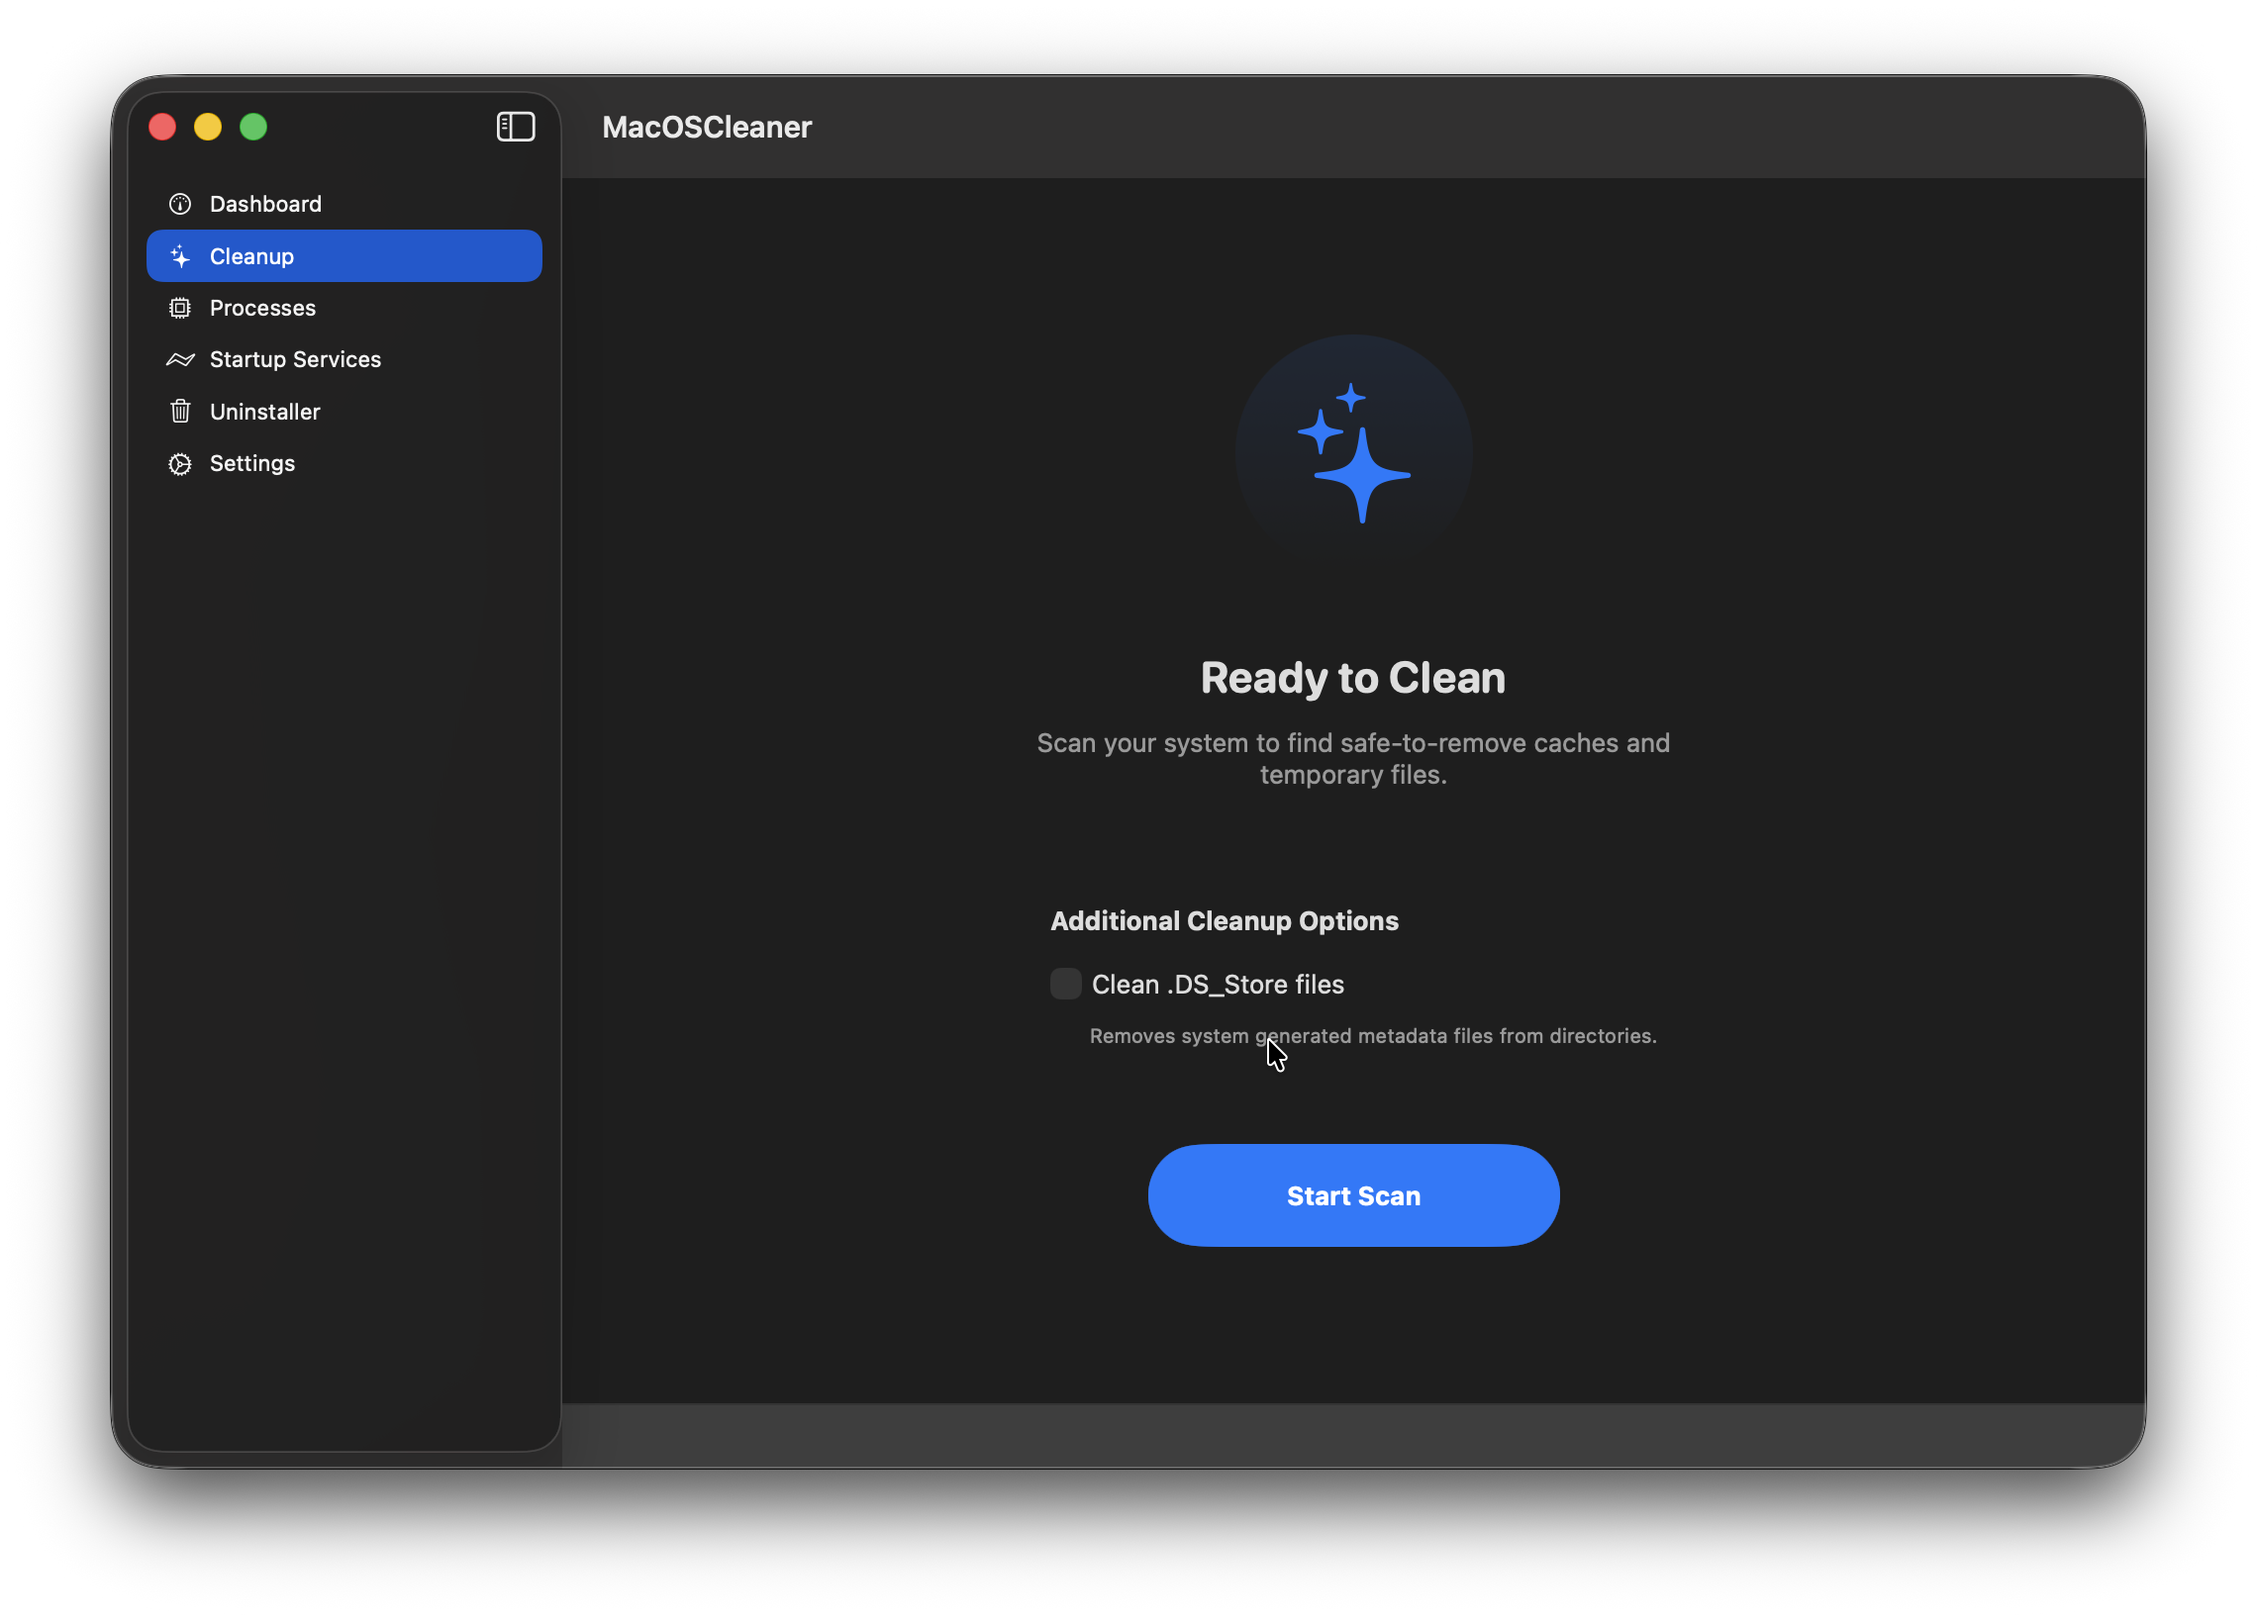
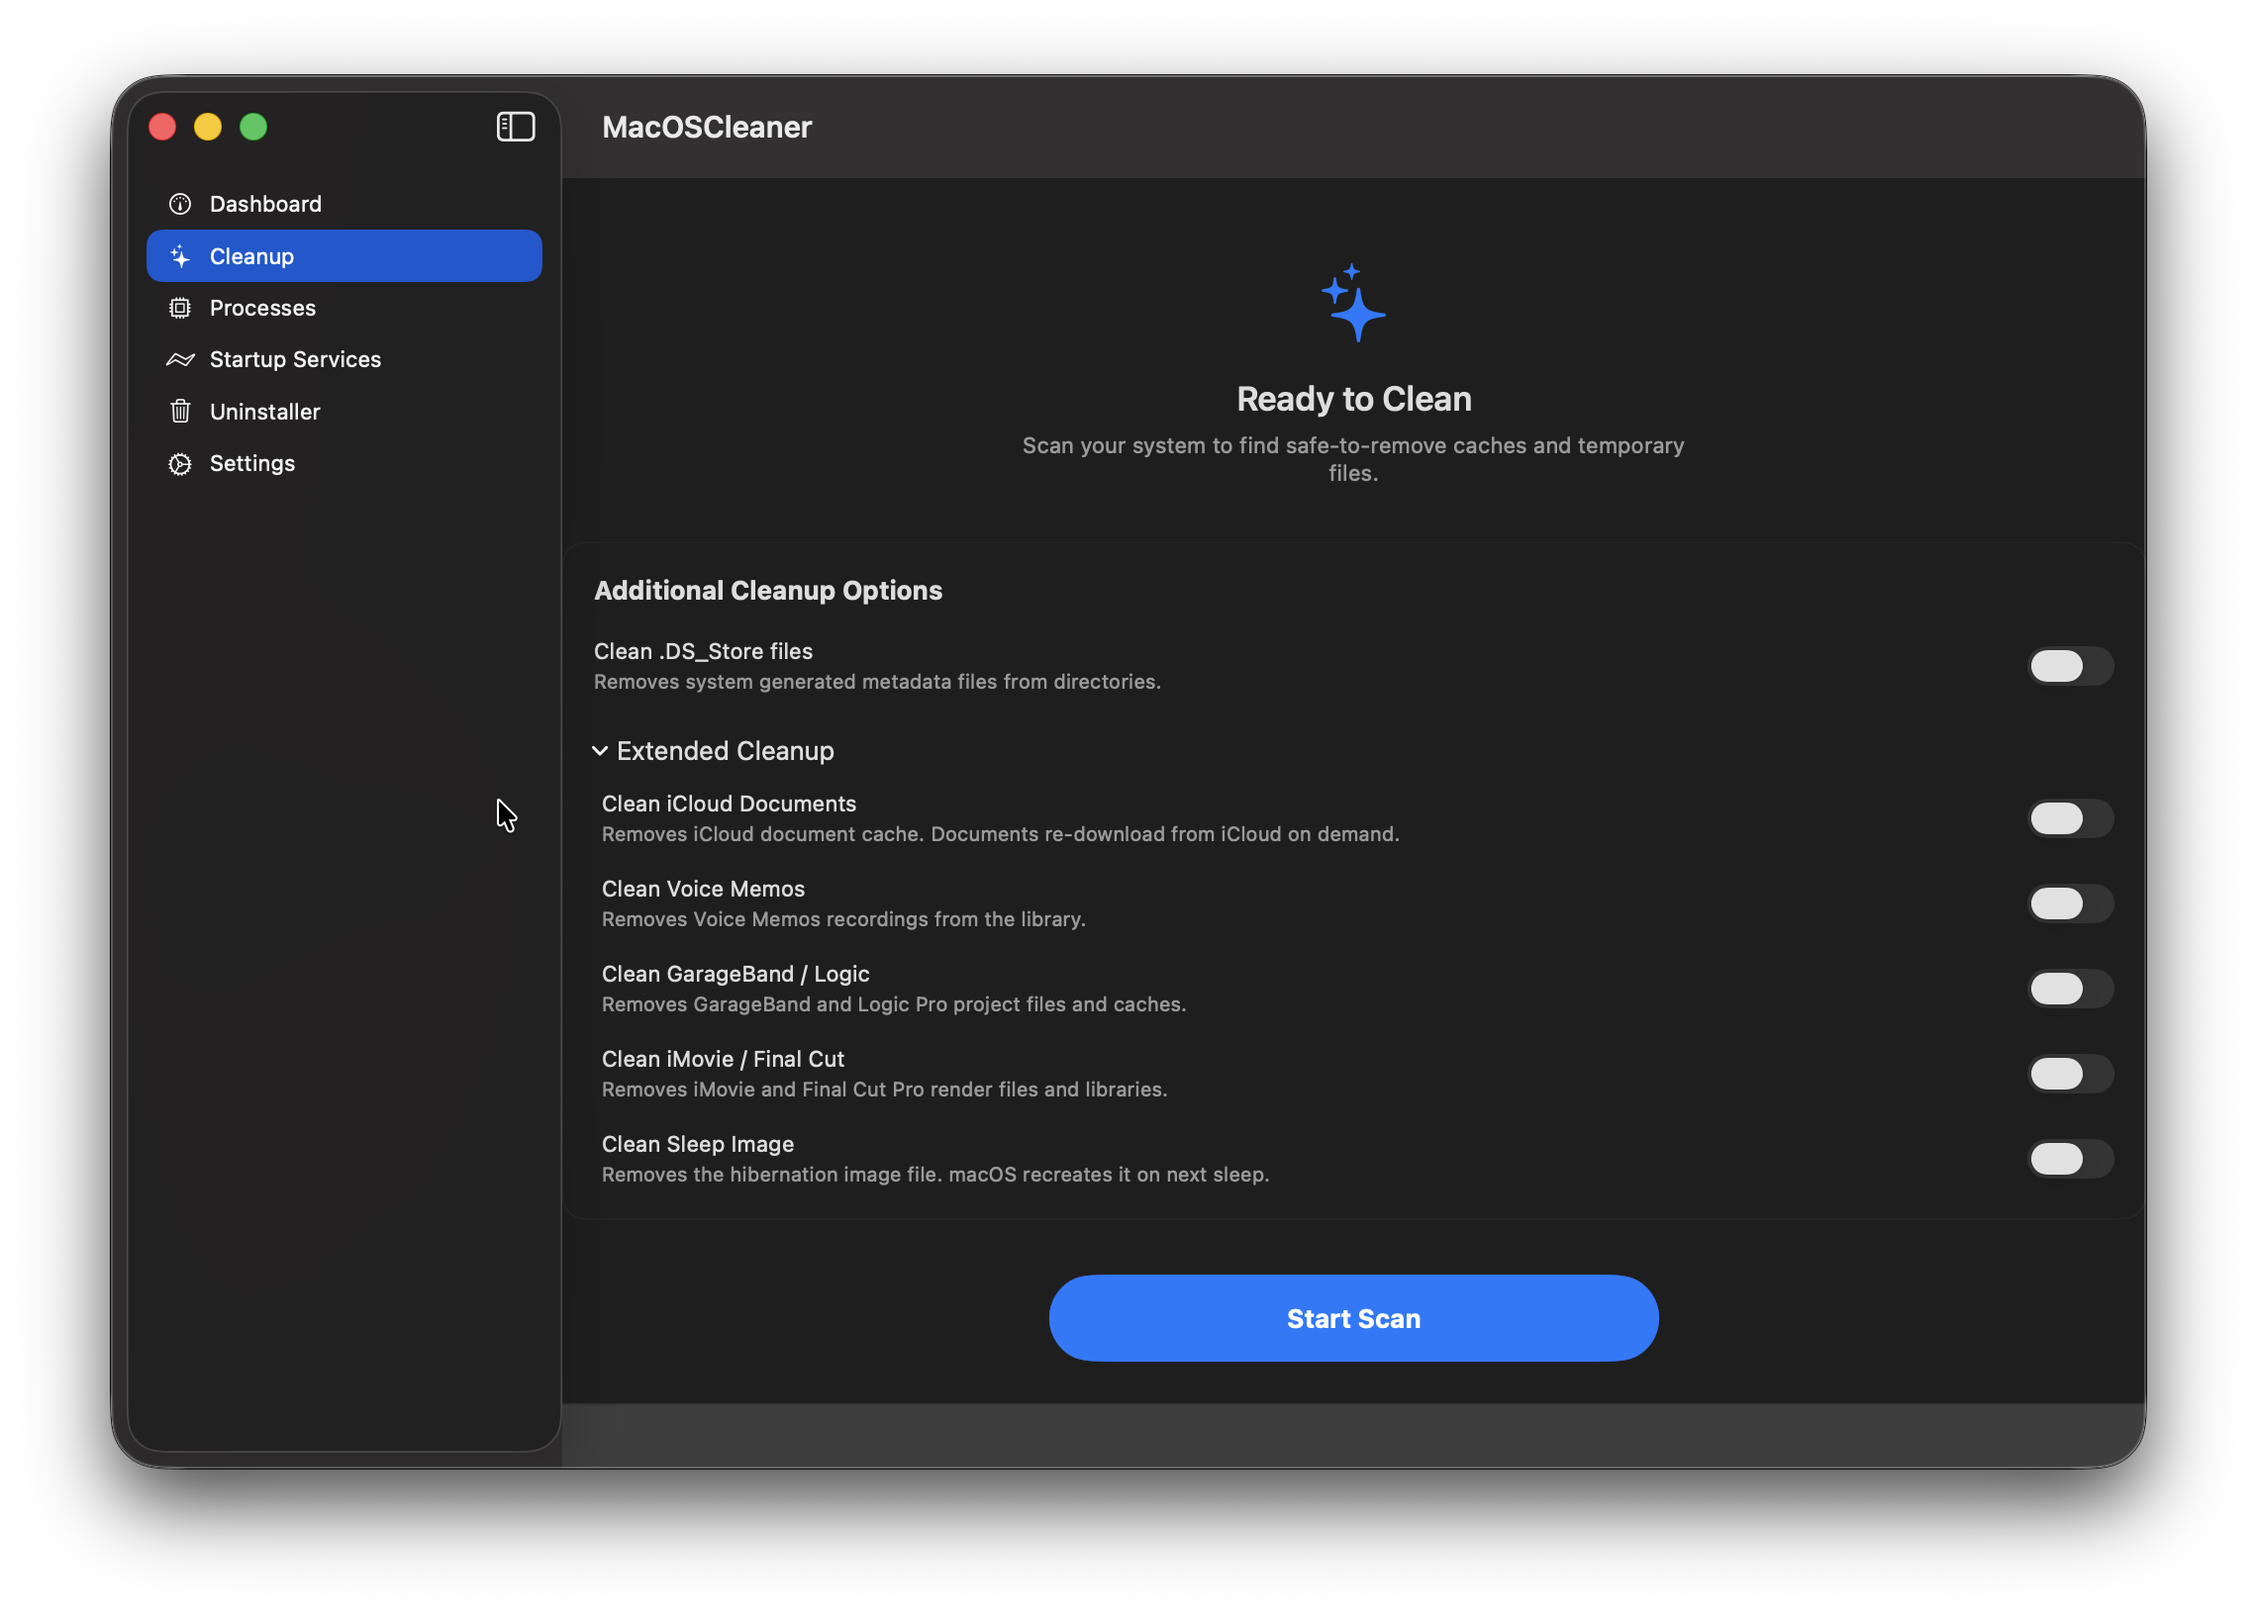
feat: redesign CleanupView with expanded cleanup options and localized categories

diff --git a/MacOSCleaner/Features/Cleanup/CleanupView.swift b/MacOSCleaner/Features/Cleanup/CleanupView.swift
@@ -76,53 +76,105 @@ public struct CleanupView: View {
     private var idleView: some View {
         @Bindable var vm = viewModel
         
-        VStack(spacing: 32) {
-            ZStack {
-                Circle()
-                    .fill(LinearGradient(colors: [.accentColor.opacity(0.1), .clear], startPoint: .top, endPoint: .bottom))
-                    .frame(width: 120, height: 120)
+        ScrollView {
+            VStack(spacing: 28) {
+                // Hero
+                VStack(spacing: 16) {
+                    Image(systemName: "sparkles")
+                        .font(.system(size: 36, weight: .regular))
+                        .foregroundStyle(.tint)
+                    
+                    VStack(spacing: 6) {
+                        Text("cleanup_ready".localized)
+                            .font(.title2)
+                            .fontWeight(.semibold)
+                        
+                        Text("cleanup_ready_sub".localized)
+                            .font(.subheadline)
+                            .foregroundColor(.secondary)
+                            .multilineTextAlignment(.center)
+                            .frame(maxWidth: 340)
+                    }
+                }
+                .padding(.top, 40)
                 
-                Image(systemName: "sparkles")
-                    .font(.system(size: 64, weight: .light))
-                    .foregroundStyle(Color.accentColor)
+                // Options card
+                VStack(alignment: .leading, spacing: 16) {
+                    Text("cleanup_additional_options".localized)
+                        .font(.headline)
+                    
+                    optionToggle(
+                        title: "cleanup_option_ds_store".localized,
+                        subtitle: "cleanup_option_ds_store_sub".localized,
+                        value: $vm.options.cleanDSStore
+                    )
+                    
+                    DisclosureGroup("cleanup_extended_title".localized) {
+                        VStack(alignment: .leading, spacing: 14) {
+                            optionToggle(
+                                title: "cleanup_option_cloud_docs".localized,
+                                subtitle: "cleanup_option_cloud_docs_sub".localized,
+                                value: $vm.options.cleanCloudDocs
+                            )
+                            optionToggle(
+                                title: "cleanup_option_voice_memos".localized,
+                                subtitle: "cleanup_option_voice_memos_sub".localized,
+                                value: $vm.options.cleanVoiceMemos
+                            )
+                            optionToggle(
+                                title: "cleanup_option_garageband_logic".localized,
+                                subtitle: "cleanup_option_garageband_logic_sub".localized,
+                                value: $vm.options.cleanGarageBandLogic
+                            )
+                            optionToggle(
+                                title: "cleanup_option_imovie_final_cut".localized,
+                                subtitle: "cleanup_option_imovie_final_cut_sub".localized,
+                                value: $vm.options.cleanIMovieFinalCut
+                            )
+                            optionToggle(
+                                title: "cleanup_option_sleep_image".localized,
+                                subtitle: "cleanup_option_sleep_image_sub".localized,
+                                value: $vm.options.cleanSleepImage
+                            )
+                        }
+                        .padding(.leading, 4)
+                        .padding(.top, 8)
+                    }
+                }
+                .padding()
+                .background(Color(NSColor.controlBackgroundColor))
+                .clipShape(RoundedRectangle(cornerRadius: 12))
+                .overlay(RoundedRectangle(cornerRadius: 12).stroke(Color.secondary.opacity(0.1), lineWidth: 0.5))
+                
+                // Start button
+                Button(action: { viewModel.startScan() }) {
+                    Text("cleanup_start_scan".localized)
+                        .font(.headline)
+                        .frame(maxWidth: 280)
+                        .frame(height: 32)
+                }
+                .buttonStyle(.borderedProminent)
+                .controlSize(.large)
+                
+                Spacer()
             }
-            .padding(.bottom, 8)
-            
-            VStack(spacing: 12) {
-                Text("cleanup_ready".localized)
-                    .font(.system(.title, design: .rounded, weight: .bold))
-                
-                Text("cleanup_ready_sub".localized)
-                    .font(.body)
-                    .foregroundColor(.secondary)
-                    .multilineTextAlignment(.center)
-                    .frame(maxWidth: 360)
-            }
-            
-            VStack(alignment: .leading, spacing: 12) {
-                Text("cleanup_additional_options".localized)
-                    .font(.headline)
-                    .padding(.bottom, 4)
-                
-                Toggle("cleanup_option_ds_store".localized, isOn: $vm.options.cleanDSStore)
-                Text("cleanup_option_ds_store_sub".localized)
+            .frame(maxWidth: .infinity)
+        }
+    }
+    
+    private func optionToggle(title: String, subtitle: String, value: Binding<Bool>) -> some View {
+        HStack {
+            VStack(alignment: .leading, spacing: 2) {
+                Text(title)
+                    .font(.subheadline)
+                Text(subtitle)
                     .font(.caption)
                     .foregroundColor(.secondary)
-                    .padding(.leading, 20)
             }
-            .padding()
-            .background(Color(NSColor.controlBackgroundColor))
-            .cornerRadius(10)
-            .padding(.horizontal, 40)
-            .padding(.top, 10)
-            
-            Button(action: { viewModel.startScan() }) {
-                Text("cleanup_start_scan".localized)
-                    .font(.headline)
-                    .frame(width: 180, height: 40)
-            }
-            .buttonStyle(.borderedProminent)
-            .controlSize(.large)
+            Spacer()
+            Toggle(isOn: value) { EmptyView() }
+                .toggleStyle(.switch)
+                .controlSize(.small)
         }
     }
     
